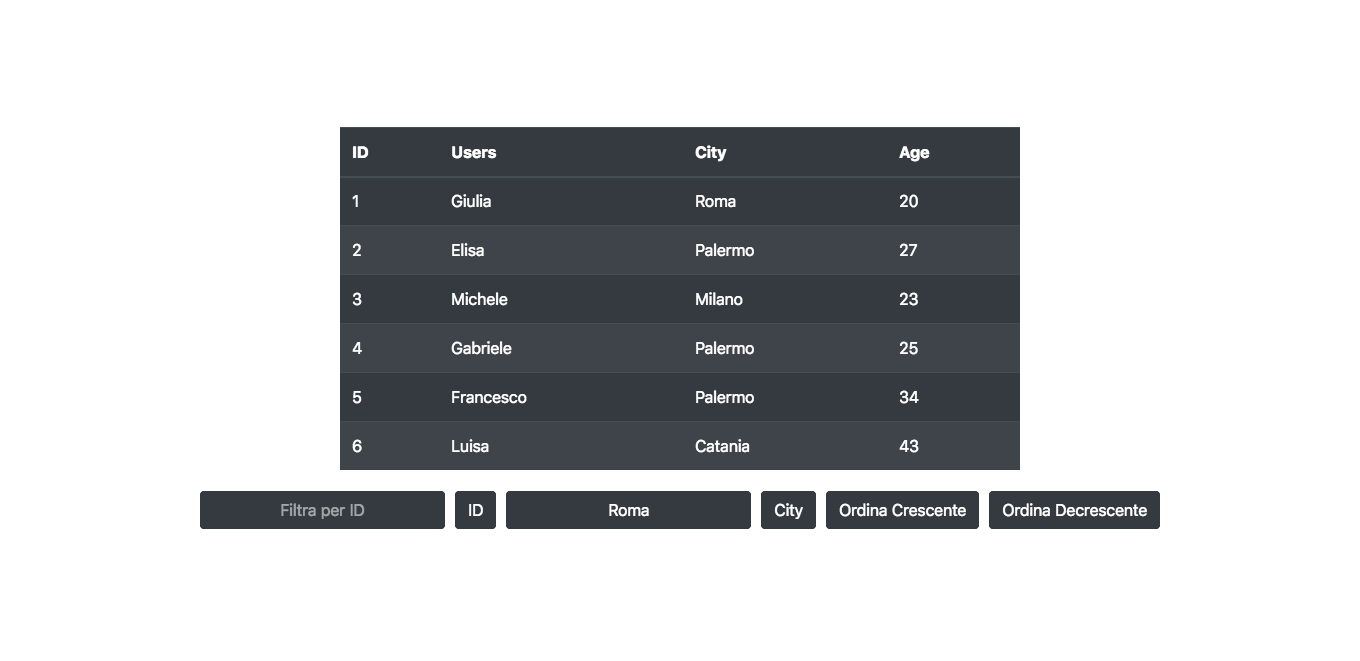
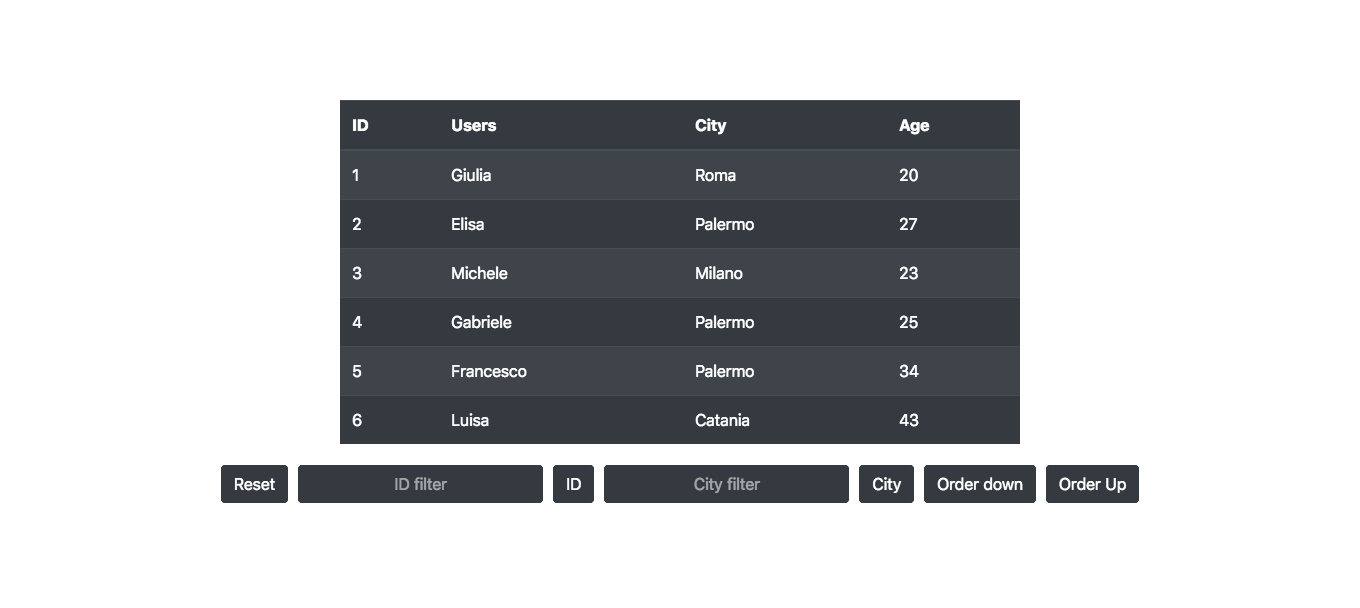
fix

diff --git a/CrudCall/script2.js b/CrudCall/script2.js
@@ -128,10 +128,67 @@ btnID.addEventListener('click', (x) => {
 }, false)
 
 upSort.addEventListener('click', x => {
-    let age = document.getElementsByClassName("age");
-    let values = Object.values(age);
-    let number = [Number(values.textContent)]
-    number.sort((a, b) => a - b)
-    console.log(number)
+    tbody.innerHTML = "";
+    let data = Object.values(response.data)
+    let array = [];
+    data.forEach(y => {
+        array.push(y)
+    })
+    array.sort((a, b) => a.age - b.age)
+    array.forEach(x => {
 
+        let tRow2 = document.createElement("tr");
+        tRow2.innerHTML =
+            `<td class="id">${x.id}</td>
+        <td class="name">${x.name}</td>
+        <td class="city">${x.location.city}</td>
+        <td class="age">${x.age}</td>`;
+        tbody.append(tRow2)
+    })
+
+}, false)
+
+downSort.addEventListener('click', x => {
+    let data = Object.values(response.data)
+    tbody.innerHTML = "";
+    let array = [];
+    data.forEach(y => {
+        array.push(y)
+    })
+    array.sort((a, b) => a.age + b.age)
+    array.forEach(x => {
+        let tRow2 = document.createElement("tr");
+        tRow2.innerHTML =
+            `<td class="id">${x.id}</td>
+        <td class="name">${x.name}</td>
+        <td class="city">${x.location.city}</td>
+        <td class="age">${x.age}</td>`;
+        tbody.append(tRow2)
+    })
+
+}, false)
+
+
+function resetAll() {
+    let valueId = filterID.value;
+    let valueCity = filterCity.value;
+    if (valueId == "" || valueCity == "") {
+        tbody.innerHTML = "";
+        populateTable()
+    }
+
+}
+
+filterCity.addEventListener('keyup', x => {
+    let value = x.target.value;
+    if (value.length == 0) {
+        resetAll()
+    }
+})
+
+filterID.addEventListener('keyup', x => {
+    let value = x.target.value;
+    if (value.length == 0) {
+        resetAll()
+    }
 })

diff --git a/CrudCall/index.html b/CrudCall/index.html
@@ -29,12 +29,12 @@
         </table>
         <div class="btnAction">
             <input type="button" id="btnReset" value="Reset" class="btn btn-dark">
-            <input id="filterID" type="text" placeholder="Filtra per ID" class="btn btn-dark" autocomplete="off">
+            <input id="filterID" type="text" placeholder="ID filter" class="btn btn-dark" autocomplete="off">
             <input id="btnID" type="button" value="ID" class="btn btn-dark">
-            <input id="filterCity" type="text" placeholder="Filtra città" class="btn btn-dark" autocomplete="off">
+            <input id="filterCity" type="text" placeholder="City filter" class="btn btn-dark" autocomplete="off">
             <input id="btnCity" type="button" value="City" class="btn btn-dark">
-            <input id="upSort" type="button" value="Ordina Crescente" class="btn btn-dark">
-            <input id="downSort" type="button" value="Ordina Decrescente" class="btn btn-dark">
+            <input id="upSort" type="button" value="Order down" class="btn btn-dark">
+            <input id="downSort" type="button" value="Order Up" class="btn btn-dark">
         </div>
     </main>
 

diff --git a/CrudCall/readme.md b/CrudCall/readme.md
@@ -1,1 +1,4 @@
 ![alt text](CRUD.png)
+
+
+I don't know why but I'm working hard on it. I think I add other things. Especially an error handler in functions.
